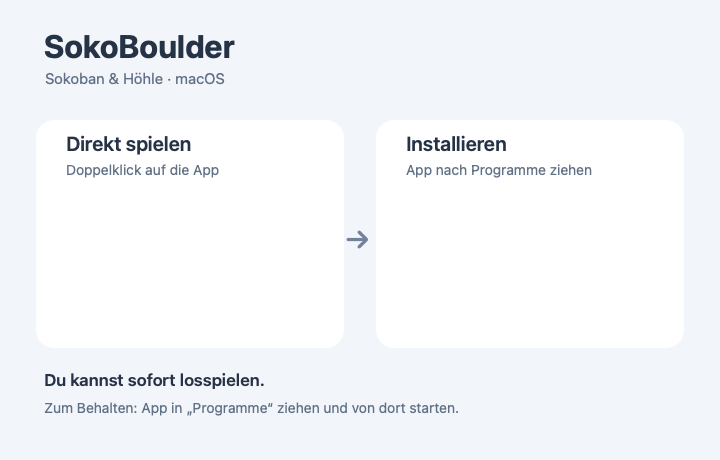
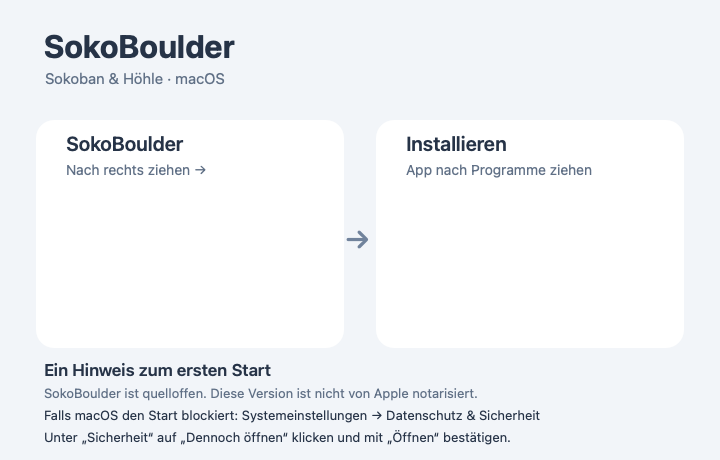
Clarify macOS first-launch instructions for release 0.1.3

Changed region(s): [[0.0611, 0.7913, 0.7639, 0.913], [0.0611, 0.9435, 0.7028, 0.9739], [0.0917, 0.2739, 0.3056, 0.3957]]

diff --git a/scripts/generate-release-artwork.swift b/scripts/generate-release-artwork.swift
@@ -43,15 +43,21 @@ try png(width: 720, height: 460, to: "scripts/dmg/background.png") {
             xRadius: 18, yRadius: 18
         ).fill()
     }
-    text("Direkt spielen", x: 66, top: 132, size: 20, weight: .semibold)
-    text("Doppelklick auf die App", x: 66, top: 161, size: 14, ink: 0x607086)
+    text("SokoBoulder", x: 66, top: 132, size: 20, weight: .semibold)
+    text("Nach rechts ziehen →", x: 66, top: 161, size: 14, ink: 0x607086)
     text("Installieren", x: 406, top: 132, size: 20, weight: .semibold)
     text("App nach Programme ziehen", x: 406, top: 161, size: 14, ink: 0x607086)
     text("→", x: 344, top: 221, size: 29, weight: .medium, ink: 0x71839c)
-    text("Du kannst sofort losspielen.", x: 44, top: 369, size: 17, weight: .semibold)
+    text("Ein Hinweis zum ersten Start", x: 44, top: 359, size: 17, weight: .semibold)
     text(
-        "Zum Behalten: App in „Programme“ ziehen und von dort starten.",
-        x: 44, top: 399, size: 14, ink: 0x607086)
+        "SokoBoulder ist quelloffen. Diese Version ist nicht von Apple notarisiert.",
+        x: 44, top: 385, size: 13, ink: 0x607086)
+    text(
+        "Falls macOS den Start blockiert: Systemeinstellungen → Datenschutz & Sicherheit",
+        x: 44, top: 407, size: 13, ink: 0x263347)
+    text(
+        "Unter „Sicherheit“ auf „Dennoch öffnen“ klicken und mit „Öffnen“ bestätigen.",
+        x: 44, top: 429, size: 13, ink: 0x263347)
 }
 
 // Use the game's existing, credited sapphire sprite for a recognisable app icon.

diff --git a/docs/RELEASING.md b/docs/RELEASING.md
@@ -36,7 +36,7 @@ Drittanbieter-Lizenzen liegen innerhalb der App unter
 `Contents/Resources/Legal/THIRD_PARTY_NOTICES.md`; die MIT-Projektlizenz liegt
 daneben als `LICENSE`. Beide bleiben beim Kopieren erhalten.
 Das DMG zeigt nur die App und die Programme-Verknüpfung: Ein Hintergrund erklärt
-den direkten Start per Doppelklick und das optionale Installieren per Ziehen.
+das Installieren per Ziehen und weist auf die notwendige Erststart-Freigabe hin.
 Fenstergröße, Symbolansicht und Positionen werden als `.DS_Store` direkt im Image
 gespeichert; der Build steuert dafür keine Finder-Fenster. Das Spielsymbol nutzt
 den bereits im Spiel enthaltenen, attribuierten Saphir. Die eingecheckten
@@ -78,21 +78,10 @@ vorliegen; ein lokaler Build löst keinen Upload aus.
 
 ## Signierung und erster Start
 
-Die App wird ausschließlich lokal **ad-hoc signiert**. Damit lässt sich ein Universal-Bundle
-ohne Apple-Zertifikat bauen und seine Integrität prüfen. Es bestätigt keine
-Entwickleridentität und ersetzt keine Notarisierung.
-
-macOS kann heruntergeladene Apps beim ersten Start blockieren. Bei einer
-vertrauenswürdigen Quelle nach dem ersten Startversuch unter
-**Systemeinstellungen → Datenschutz & Sicherheit → Dennoch öffnen** freigeben.
-Siehe [Apples Hinweise zum sicheren Öffnen von Apps](https://support.apple.com/de-de/102445).
-Das DMG umgeht Gatekeeper nicht.
-
-Developer-ID-Signierung, Apple-Notarisierung und Stapling sind auf Entscheidung
-des Maintainers vom 2026-10-18 bewusst nicht vorgesehen. Es werden weder ein
-Apple-Developer-Konto noch Zertifikate oder Apple-Zugangsdaten eingerichtet.
-Die lokale Ad-hoc-Signatur benötigt nichts davon; die manuelle Freigabe beim
-ersten Download wird als Teil dieses Distributionswegs akzeptiert.
+Die App wird lokal **ad-hoc signiert**. Für die quelloffene, selbst baubare Demo
+verzichten wir bewusst auf ein kostenpflichtiges Apple-Entwicklerkonto und die
+Notarisierung. Die kurze Anleitung zur Erststart-Freigabe steht in der
+[README](../README.md#erster-start-macos-freigabe).
 
 Vor Veröffentlichung: ZIP und DMG auf einem frischen Mac testen, beide Spiele
 mit Audio öffnen und macOS 14 sowie Intel separat prüfen. Der Universal-Build

diff --git a/README.md b/README.md
@@ -14,14 +14,21 @@ Zwei Rasterspiele in einer nativen macOS-App:
 Für **macOS 14 oder neuer**, auf **Apple Silicon und Intel**. Xcode wird zum
 Spielen nicht benötigt.
 
-- **DMG:** öffnen und auf **SokoBoulder** doppelklicken, um direkt zu spielen.
-  Zum Installieren die App auf **Programme** ziehen.
-- **ZIP:** entpacken und `SokoBoulder.app` starten.
+- **DMG:** öffnen und **SokoBoulder** auf **Programme** ziehen. Danach die App
+  aus „Programme“ starten.
+- **ZIP:** entpacken, `SokoBoulder.app` nach „Programme“ verschieben und dort starten.
 
-Die App wird ohne Apple Developer ID und Notarisierung verteilt. Falls macOS
-den ersten Start blockiert, lässt sie sich nach dem Startversuch unter
-**Systemeinstellungen → Datenschutz & Sicherheit → Dennoch öffnen** freigeben.
-[Apples Anleitung](https://support.apple.com/de-de/102445)
+### Erster Start: macOS-Freigabe
+
+SokoBoulder ist eine quelloffene Demo, die du selbst bauen kannst. Für dieses
+Projekt verzichten wir auf ein kostenpflichtiges Apple-Entwicklerkonto und damit
+auf die Notarisierung.
+
+Falls macOS beim ersten Start „Apple konnte nicht überprüfen …“ meldet:
+
+1. **Fertig** klicken.
+2. **Systemeinstellungen → Datenschutz & Sicherheit → Sicherheit → Dennoch öffnen** wählen.
+3. Mit **Öffnen** bestätigen.
 
 ## Screenshots
 

diff --git a/docs/releases/0.1.3.md b/docs/releases/0.1.3.md
@@ -1,0 +1,23 @@
+# SokoBoulder 0.1.3
+
+Kurze Installationshilfe für den ersten macOS-Start.
+
+- DMG-Hintergrund erklärt die Installation nach „Programme“ und die macOS-Freigabe.
+- README und START-HERE.txt erklären den Dialog „Apple konnte nicht überprüfen …“ Schritt für Schritt.
+- Das Retro-HUD aus 0.1.2 ist enthalten.
+
+## Installation und erster Start
+
+Für macOS 14+, Apple Silicon und Intel. DMG öffnen und SokoBoulder nach
+„Programme“ ziehen; alternativ das ZIP entpacken und die App dorthin verschieben.
+Die App anschließend aus „Programme“ starten.
+
+SokoBoulder ist eine quelloffene Demo, die du selbst bauen kannst. Für dieses
+Projekt verzichten wir auf ein kostenpflichtiges Apple-Entwicklerkonto und damit
+auf die Notarisierung.
+
+Falls macOS beim ersten Start „Apple konnte nicht überprüfen …“ meldet:
+
+1. **Fertig** klicken.
+2. **Systemeinstellungen → Datenschutz & Sicherheit → Sicherheit → Dennoch öffnen** wählen.
+3. Mit **Öffnen** bestätigen.
